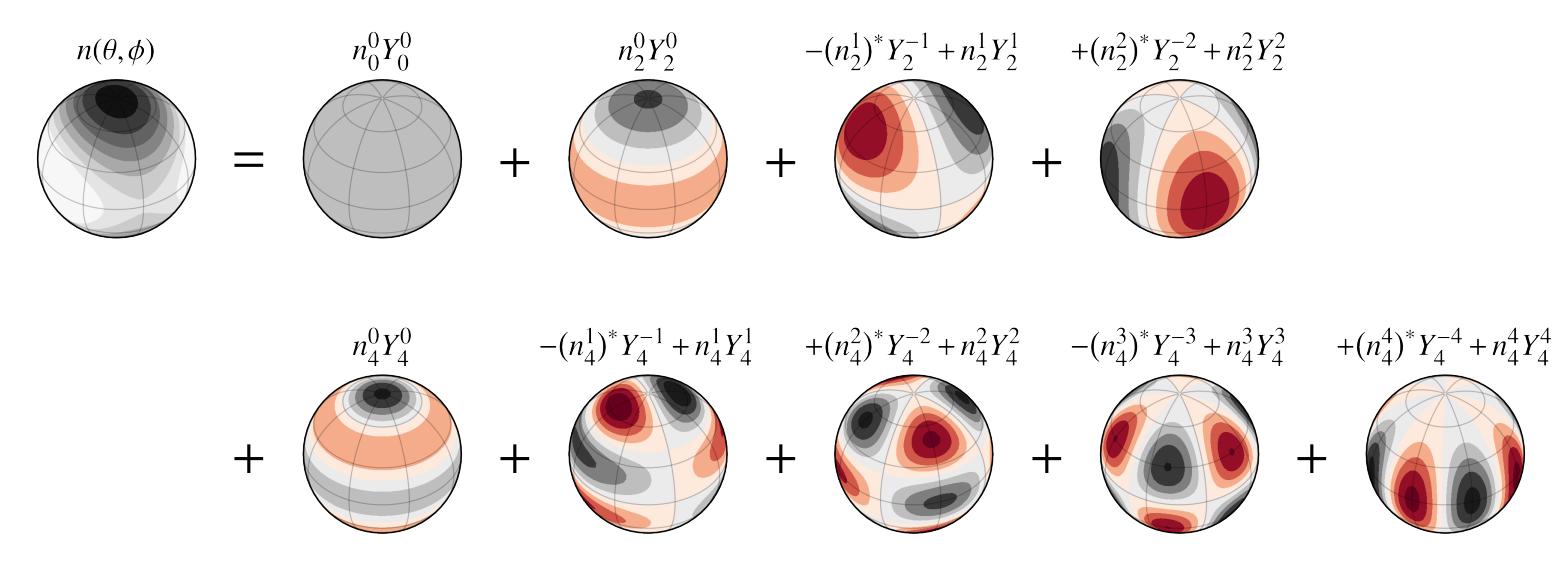
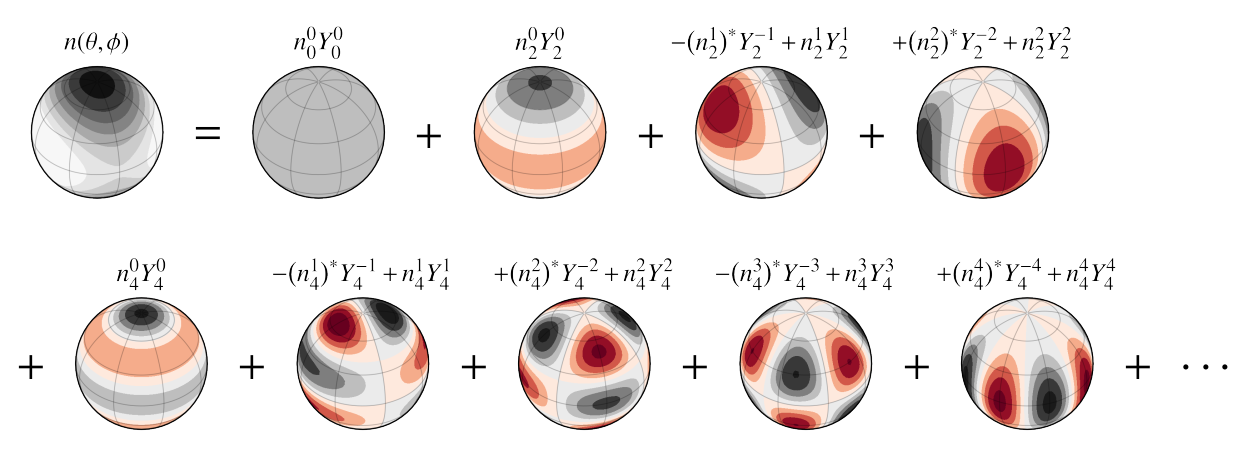
updated docs harmonic expansion figure

diff --git a/images/harmonic-expansion/harmonic-expansion.tex b/images/harmonic-expansion/harmonic-expansion.tex
@@ -1,6 +1,6 @@
 \documentclass[tikz,margin=0.0mm]{standalone}
 
-% pdftocairo -singlefile -transp -r 150 -png harmonic-expansion.pdf harmonic-expansion
+% pdftocairo -singlefile -transp -r 125 -png harmonic-expansion.pdf harmonic-expansion
 
 \usepackage{amsmath}
 \usepackage{amssymb}
@@ -13,7 +13,7 @@
 \begin{document}
 
 \gdef\dx{4.5}
-\gdef\dy{5}
+\gdef\dy{4.7}
 \gdef\fs{27}
 
 \begin{tikzpicture}[scale=1]
@@ -29,7 +29,7 @@
 \node[] at ({2*\dx},0) {\includegraphics[scale=1]{Y21.png}};
 \node[] at ({3*\dx},0) {\includegraphics[scale=1]{Y22.png}};
 
-\gdef\jj{0}
+\gdef\jj{-0.8}
 \node[] at ({(\jj+0)*\dx},-\dy) {\includegraphics[scale=1]{Y40.png}};
 \node[] at ({(\jj+1)*\dx},-\dy) {\includegraphics[scale=1]{Y41.png}};
 \node[] at ({(\jj+2)*\dx},-\dy) {\includegraphics[scale=1]{Y42.png}};
@@ -41,10 +41,12 @@
 	\node[] at ({(\i+0.5)*\dx},-0.5) {\fontsize{\fs}{\fs}\selectfont $\bf +$};
 }
 
-\foreach \i in {-1,...,3}
+\foreach \i in {-1,...,4}
 {
 	\node[] at ({(\i+0.5+\jj)*\dx},-0.5-\dy) {\fontsize{\fs}{\fs}\selectfont $\bf +$};
 }
+
+\node[] at ({(4+0.2)*\dx+\jj},-0.6-1*\dy) {\fontsize{\fs}{\fs}\selectfont $\bf\cdots$};
 
 \end{tikzpicture}
 
